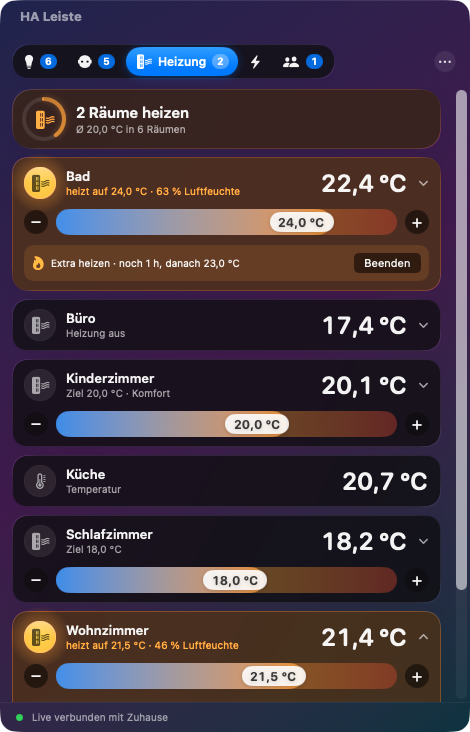
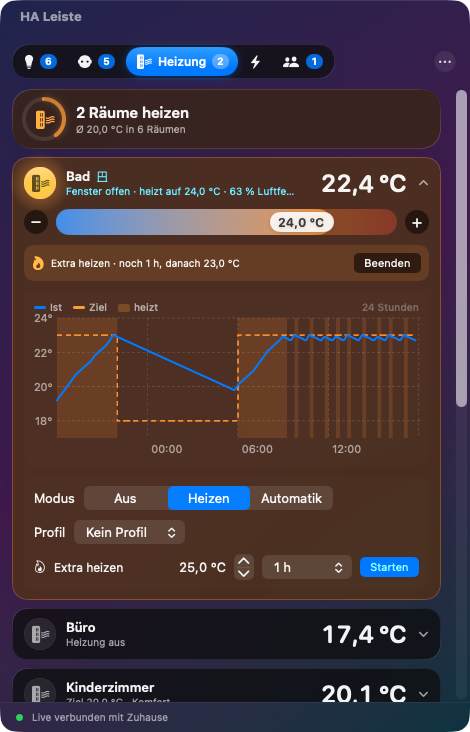
2.2: Updater mit Änderungsanzeige, Fenster offen/zu, 24-Stunden-Verlauf der Heizung

diff --git a/plasma/README.md b/plasma/README.md
@@ -33,6 +33,11 @@ und alles ist da.
 - **Heizung**: alle Räume mit Temperatur (live) und Luftfeuchte. Zieltemperatur mit Regler
   und −/+, Modus (Aus/Heizen/Automatik), Profil (Eco, Komfort …) und **Extra heizen**: eine
   Temperatur für 30 Minuten bis 4 Stunden, danach automatisch zurück – auch nach einem Neustart.
+- **Fenster und Verlauf**: bei jeder Heizung ein Symbol für Fenster offen/zu (Fensterkontakte im
+  Raum oder das Thermostat selbst); ein Klick auf die Heizung zeigt den Verlauf der letzten
+  24 Stunden – Ist- und Zieltemperatur und wann geheizt wurde.
+- **Updates**: das Widget meldet neue Versionen (GitHub). Menü ⋮ → „Was ist neu?“ zeigt die
+  Änderungen, „Installieren“ spielt das Update mit `kpackagetool6` ein, danach „Plasma neu starten“.
 - **Personen**: Karte wie bei „Wo ist?“ mit Zonen (Zuhause, Arbeit …), darunter wer wo ist, seit
   wann und wie weit von zu Hause – dazu, ob gerade geheizt wird.
 - **Mehrere Instanzen**: beliebig viele Home-Assistant-Installationen, eine als Favorit (wird

diff --git a/macos/README.md b/macos/README.md
@@ -27,6 +27,10 @@ in der Menüleiste – im **Liquid-Glass-Design von macOS 26 Tahoe**. Gegenstüc
 - **Heizung**: alle Räume mit Temperatur (live) und Luftfeuchte, Zieltemperatur mit Regler
   (blau → orange) und −/+, Modus, Profil und **Extra heizen** für 30 Minuten bis 4 Stunden –
   danach geht die Temperatur von selbst zurück.
+- **Fenster und Verlauf**: bei jeder Heizung ein Symbol für Fenster offen/zu; ein Klick auf die
+  Heizung zeigt den Verlauf der letzten 24 Stunden (Ist, Ziel, Heizphasen).
+- **Updates**: neue Versionen werden im Panel gemeldet. „Was ist neu?“ zeigt die Änderungen,
+  „Installieren und neu starten“ lädt das Update von GitHub, prüft es und tauscht die App aus.
 - **Personen**: Apple-Karte mit Zonen (Zuhause, Arbeit …) und allen Personen, darunter wer wo
   ist, seit wann und wie weit weg – und ob gerade geheizt wird.
 - **Mehrere Instanzen**: beliebig viele Home-Assistant-Installationen, eine als Favorit (★, wird

diff --git a/README.md b/README.md
@@ -21,6 +21,8 @@ Dazu gibt es auf beiden Systemen **Widgets für den Schreibtisch**.
 - **Heizung**: alle Räume mit Temperatur und Luftfeuchte, Zieltemperatur per Regler, Modus, Profil,
   **Extra heizen** für 30 Minuten bis 4 Stunden
 - **Personen**: Karte wie bei „Wo ist?“, wer ist wo und wie weit weg, heizt es gerade?
+- **Fenster offen/zu** bei jeder Heizung und **24-Stunden-Verlauf** (Ist, Ziel, Heizphasen) zum Aufklappen
+- **Updates mit einem Klick**: neue Version wird gemeldet, „Was ist neu?“ zeigt die Änderungen
 - **Mehrere Home-Assistant-Instanzen** mit Favorit, Wechsel über das Menü
 - **Widgets/Kacheln** für den Schreibtisch: Übersicht, Lampe, Steckdose, Raum, Heizung, Energie, Personen, Entität
 - **Live** über die WebSocket-Schnittstelle von Home Assistant, Schutz vor IP-Sperre bei falschem Token
